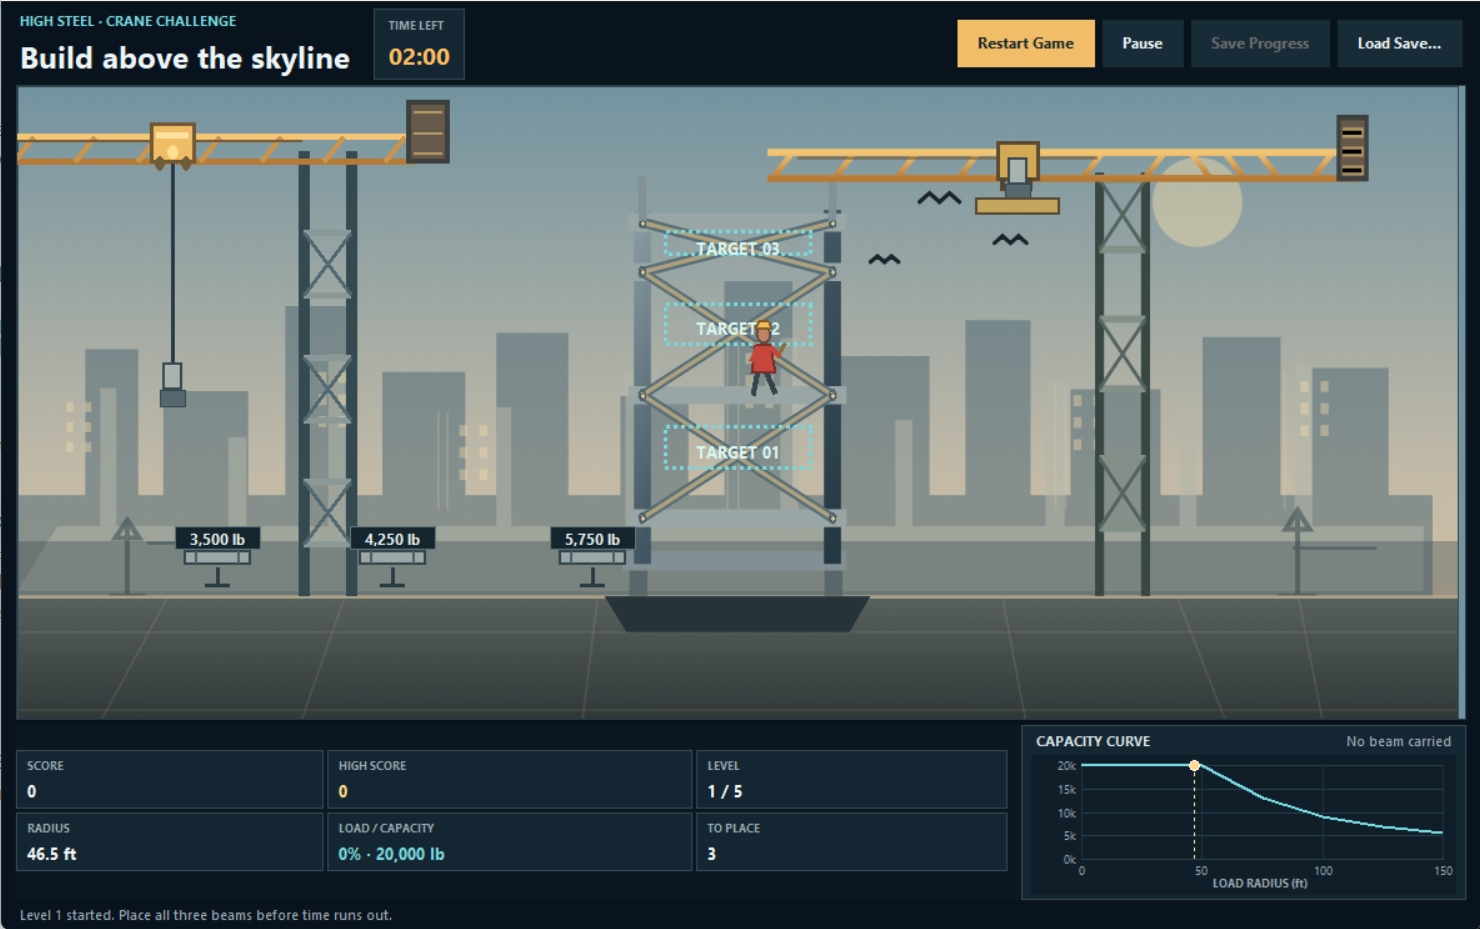
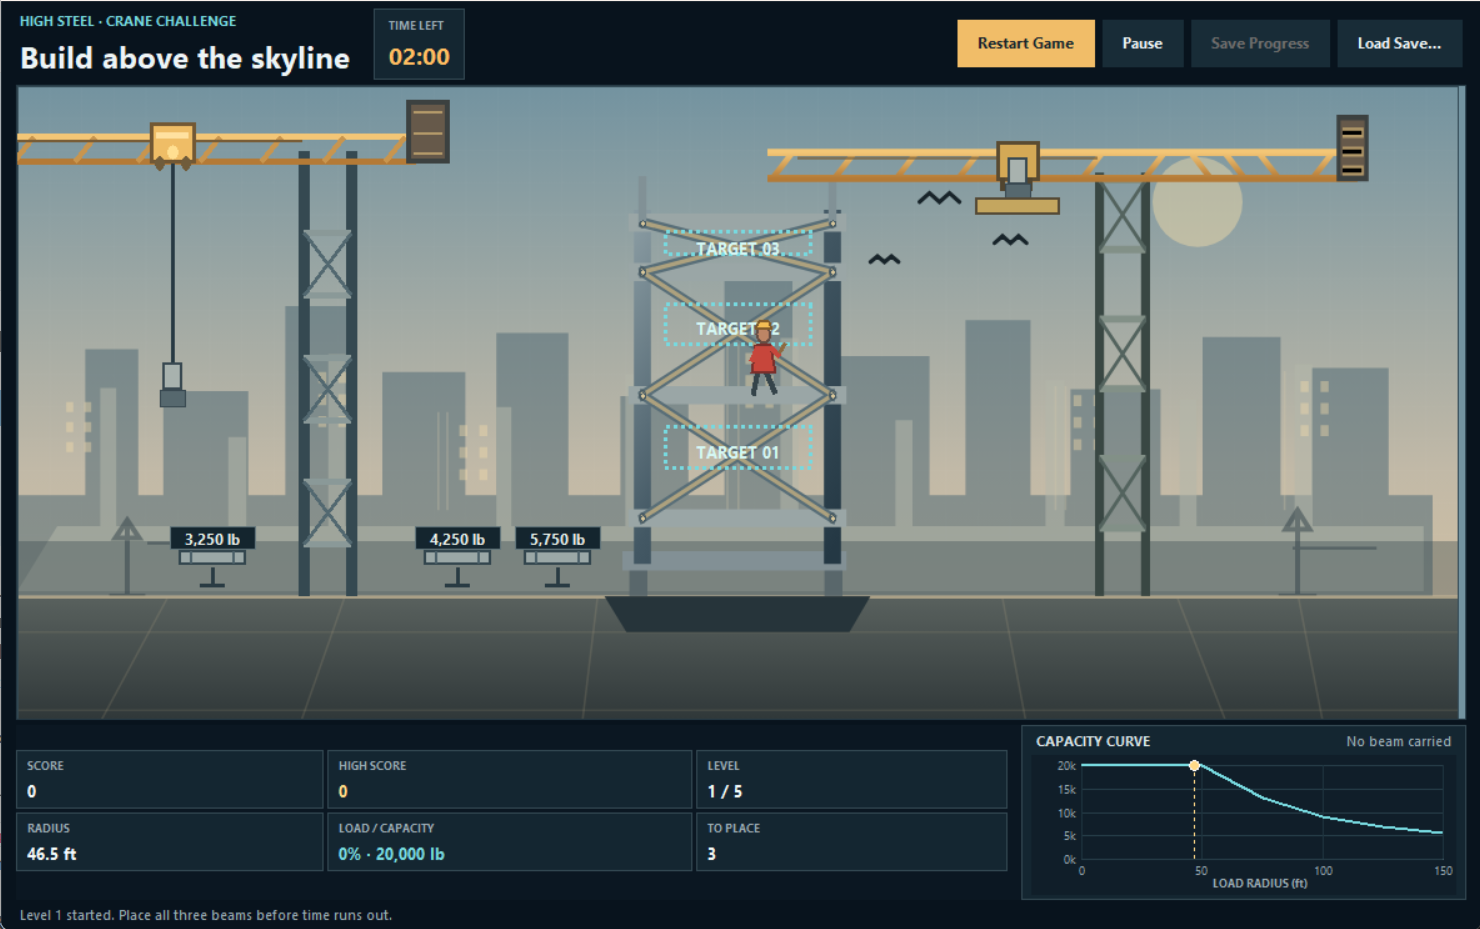
Spec 3 Desktop

Changed region(s): [[0.2176, 0.5619, 0.4351, 0.6555], [0.0932, 0.5619, 0.1865, 0.6243], [0.0, 0.9989, 0.0311, 1.0]]

diff --git a/02_validation/gui_checks.py b/02_validation/gui_checks.py
@@ -209,33 +209,33 @@ class DesktopGuiChecks(unittest.TestCase):
 
     def test_level_progression_completion_and_high_score(self):
         self.app.start_game()
-        layout = APP.TOWER_LAYOUTS[0]
-        for target in range(3):
-            self.app.carried = target
-            self.app.beams[target]["state"] = "carried"
-            self.app.trolley_x = layout["centers"][target]
-            target_y = 510 + 1.5 * (layout["targets"][target] - 510)
-            self.app.hook_y = 510 + (target_y - 6.5 - 510) / 1.3
-            self.app.auto_x = 1000
-            self.app.auto_y = 120
-            self.app.toggle_beam()
-            self.assertIn(target, self.app.filled_targets)
-        self.assertEqual((self.app.level, self.app.score), (1, 500))
-        self.assertIsNotNone(self.app.level_after_id)
-        self.root.after_cancel(self.app.level_after_id)
-        self.app.level_after_id = None
-        self.app._advance_level()
-        self.assertTrue(self.app.running)
-        self.assertEqual(self.app.level, 2)
-        self.assertAlmostEqual(self.app.remaining, APP.LEVEL_SECONDS[1], delta=0.1)
-        self.app.level = 5
-        self.app.score = 1800
-        self.app._complete_level()
+        for level in range(1, 6):
+            self.assertEqual(self.app.level, level)
+            layout = APP.TOWER_LAYOUTS[level - 1]
+            for target in range(3):
+                self.app.carried = target
+                self.app.beams[target]["state"] = "carried"
+                self.app.trolley_x = layout["centers"][target]
+                target_y = 510 + 1.5 * (layout["targets"][target] - 510)
+                self.app.hook_y = 510 + (target_y - 6.5 - 510) / 1.3
+                self.app.auto_x = 1000
+                self.app.auto_y = 120
+                self.app.toggle_beam()
+                self.assertIn(target, self.app.filled_targets)
+            self.assertEqual(self.app.score, level * 500)
+            if level < 5:
+                self.assertIsNotNone(self.app.level_after_id)
+                self.root.after_cancel(self.app.level_after_id)
+                self.app.level_after_id = None
+                self.app._advance_level()
+                self.assertTrue(self.app.running)
+                self.assertEqual(self.app.level, level + 1)
+                self.assertAlmostEqual(self.app.remaining, APP.LEVEL_SECONDS[level], delta=0.1)
         self.assertTrue(self.app.finished)
-        self.assertEqual(self.app.score, 2000)
+        self.assertEqual(self.app.score, 2500)
         self.assertEqual(self.app.start_button.cget("text"), "Play Again")
         score_file = Path(self.temp_dir.name) / "high_score.json"
-        self.assertEqual(json.loads(score_file.read_text(encoding="utf-8"))["high_score"], 2000)
+        self.assertEqual(json.loads(score_file.read_text(encoding="utf-8"))["high_score"], 2500)
 
 
 if __name__ == "__main__":

diff --git a/04_desktop/app.py b/04_desktop/app.py
@@ -35,6 +35,7 @@ TOWER_LAYOUTS = (
 BEAM_SPAWN_RANGES = ((155, 205), (360, 470), (520, 660))
 SAVE_VERSION = 1
 SCENE_SCALES = (1.0, 0.9, 0.8, 0.7, 0.6)
+CAPACITY_EPSILON = 1e-7
 
 
 def capacity_at_radius(radius: float) -> float:
@@ -44,6 +45,11 @@ def capacity_at_radius(radius: float) -> float:
         if radius <= r1:
             return c0 + ((radius - r0) / (r1 - r0)) * (c1 - c0)
     return CAPACITY_CHART[-1][1]
+
+
+def load_at_capacity_fraction(weight: float, capacity: float, fraction: float) -> bool:
+    """Apply a negligible tolerance to capacity thresholds after interpolation."""
+    return weight + CAPACITY_EPSILON >= capacity * fraction
 
 
 def scene_radius(screen_x: float) -> float:
@@ -556,7 +562,7 @@ class HighSteelApp:
             self.hook_y = max(175.0, min(490.0, self.hook_y + vertical * 115 * dt))
         self._animate_hazards(now, dt)
         radius = self.trolley_radius()
-        if self.carried is not None and self.beams[self.carried]["weight"] >= capacity_at_radius(radius):
+        if self.carried is not None and load_at_capacity_fraction(self.beams[self.carried]["weight"], capacity_at_radius(radius), 1.0):
             self._fail("LOAD LIMIT EXCEEDED")
             return
         if now - self.last_draw >= 0.045:
@@ -930,7 +936,7 @@ class HighSteelApp:
         if self.carried is not None:
             weight = self.beams[self.carried]["weight"]
             load_y = graph_y(weight)
-            color = "#ff5e59" if weight / capacity >= 0.9 else "#ffd987"
+            color = "#ff5e59" if load_at_capacity_fraction(weight, capacity, 0.9) else "#ffd987"
             canvas.create_line(left, load_y, x, load_y, fill=color, dash=(4, 3))
             canvas.create_oval(x - 4, load_y - 4, x + 4, load_y + 4, fill=color, outline="#fff")
             self.graph_note.configure(text=f"{weight:,} lb · {weight / capacity:.0%}", fg=color)
@@ -953,7 +959,8 @@ class HighSteelApp:
         capacity = capacity_at_radius(radius)
         percent = self.beams[self.carried]["weight"] / capacity * 100 if self.carried is not None else 0.0
         self.stat_values["radius"].configure(text=f"{radius:.1f} ft")
-        warning_flash = percent >= 90 and blink
+        warning_flash = (self.carried is not None and
+                         load_at_capacity_fraction(self.beams[self.carried]["weight"], capacity, 0.9) and blink)
         self.stat_values["capacity"].configure(text=f"{percent:.0f}% · {capacity:,.0f} lb",
                                                fg="#ff5e59" if warning_flash else "#77d9df")
         self.stat_values["beams"].configure(text=str(3 - len(self.filled_targets)))

diff --git a/02_validation/test_desktop.py b/02_validation/test_desktop.py
@@ -22,6 +22,10 @@ class CapacityValidation(unittest.TestCase):
 
     def test_warning_threshold(self):
         self.assertAlmostEqual(APP.capacity_at_radius(112) * 0.9, 7236)
+        self.assertTrue(APP.load_at_capacity_fraction(7236, APP.capacity_at_radius(112), 0.9))
+        self.assertFalse(APP.load_at_capacity_fraction(7235, APP.capacity_at_radius(112), 0.9))
+        self.assertTrue(APP.load_at_capacity_fraction(5500, APP.capacity_at_radius(150), 1.0))
+        self.assertFalse(APP.load_at_capacity_fraction(5499, APP.capacity_at_radius(150), 1.0))
 
     def test_radius_is_bounded(self):
         self.assertEqual(APP.scene_radius(-1000), 150)

diff --git a/02_validation/capture_desktop.py b/02_validation/capture_desktop.py
@@ -60,6 +60,14 @@ def main() -> None:
             app._draw_graph()
             app._update_hud()
             capture(root, "desktop-step-3-left.png")
+            app.orientation = 1
+            app.trolley_x = APP.MAST_PIVOT + 140 * 500 / 150
+            app.carried = 2
+            app.beams[2]["state"] = "carried"
+            app._draw_scene()
+            app._draw_graph()
+            app._update_hud()
+            capture(root, "desktop-step-3-load.png")
         finally:
             root.destroy()
 

diff --git a/spec.md b/spec.md
@@ -117,8 +117,9 @@ When capacity reaches 90%, make the capacity percentage box flash red. Make the 
 
 - **Step 1 graph file:** [capacity-validation-step-1.svg](03_output/capacity-validation-step-1.svg)
 - **Step 2 graph file:** [capacity-validation-step-2.svg](03_output/capacity-validation-step-2.svg)
+- **Step 3 graph file:** [capacity-validation-step-3.svg](03_output/capacity-validation-step-3.svg)
 
-All recorded desktop validation results are in this table. The capacity, route, and property values were checked by the independent JavaScript reference validator in `02_validation/validate_desktop.js`. Source checks inspect the Python code and scene assets. Matching Python unit tests in `02_validation/test_desktop.py` and interactive checks remain pending because this environment has no usable Python interpreter.
+All recorded desktop validation results are in this table. The capacity, route, and property values were checked by the independent JavaScript reference validator in `02_validation/validate_desktop.js`; Python unit tests and hidden-window Tkinter checks were also run with Python 3.15.2. Source checks inspect the Python code and scene assets. A separate physical computer was unavailable for a literal cross-computer save transfer.
 
 | Step | Validation check | Expected | Actual | Status |
 |:---:|---|---|---|---|
@@ -135,7 +136,7 @@ All recorded desktop validation results are in this table. The capacity, route, 
 | 1 | Original SVG overlay coordinates | 38.1, 74.5, 56.2, 92.4 px | Coordinates applied in Tkinter drawing | Pass, source comparison |
 | 1 | Interpolation proportionality | 15 samples match straight-line values; 87.5 ft gives 11,000 lb | 15 matched; 87.5 ft gives 11,000 lb | Pass, property |
 | 1 | Left/right trolley symmetry | 4 pairs match; x = 10 and 610 give 90 ft and 10,600 lb | 4 matched; example matches | Pass, property |
-| 1 | Python unit tests and Tkinter visual check | Run desktop code | Could not run here | Pending |
+| 1 | Python and Tkinter scene checks | Run desktop code and inspect full scene | 16 unit tests and 9 Tkinter checks passed; start scene inspected | Pass |
 | **Step 2** | **Gameplay and desktop features** | | | |
 | 2 | Capacity at 50 ft | 20,000 lb | 20,000 lb | Pass, reference |
 | 2 | Capacity at 62.5 ft | 16,500 lb | 16,500 lb | Pass, reference |
@@ -154,9 +155,21 @@ All recorded desktop validation results are in this table. The capacity, route, 
 | 2 | Animated turn symmetry | 5 symmetric progress samples; halfway is edge-on | 5 samples matched | Pass, property |
 | 2 | Gameplay, save/load, graph, timer, layout, and turn source flows | 17 checks | 17 passed | Pass, source inspection |
 | 2 | Backgrounds without the fixed player crane | 25 regenerated PNGs; fixed crane absent | 25 regenerated; 70% image visually inspected | Pass, asset inspection |
-| 2 | Python unit tests and Tkinter visual check | Run desktop code | Could not run here | Pending |
-| 2 | Interactive gameplay and checkpoint transfer | Observe in Tkinter and between computers | Could not run here | Pending for step 3 |
-| 3 | Final acceptance checks and capacity graph | Run after step 3 review | Not started | Pending |
+| 2 | Python and Tkinter gameplay checks | Run desktop code | 16 unit tests and 9 Tkinter checks passed | Pass |
+| 2 | Portable checkpoint in a fresh app instance | Level, time, score, placed target, and beam identity restored | Level 3, 47.5 s, score 410, target 0 with beam 3 restored | Pass, Tkinter |
+| **Step 3** | **Final acceptance review** | | | |
+| 3 | Capacity and challenge cases | 10 numerical cases | 10 passed | Pass, reference |
+| 3 | Beam route feasibility | 315 safe routes across five levels | 315 safe routes | Pass, reference |
+| 3 | Mathematical properties | 15 interpolation, 4 radius symmetry, 8 mirror, 5 turn samples | All 32 matched | Pass, property |
+| 3 | Python unit tests | 16 capacity, checkpoint, and gameplay tests | 16 passed | Pass, Python |
+| 3 | Tkinter acceptance tests | 9 scene, graph, pause, save/load, hazard, failure, and progression checks | 9 passed | Pass, Tkinter |
+| 3 | Live graph with a 3,250 lb beam | Weight marker above 0 lb baseline at y = 70.8125 px; no shift from cable sway | Marker at 70.8125 px; no shift | Pass, Tkinter |
+| 3 | Exact 90% warning and 100% overload | 7,236 lb at 112 ft warns; 5,500 lb at 150 ft reaches limit | Warning and threshold tests passed | Pass, Python and Tkinter |
+| 3 | Worker, automatic crane, bird, and failure motion | Contact penalties, bird sway, worker bounce | All observed in Tkinter checks | Pass |
+| 3 | Five-level placement and high score | Three placements per level; final score 2,500; saved high score 2,500 | Five levels completed; both scores 2,500 | Pass, Tkinter |
+| 3 | Timeout and overload restart paths | Timeout restarts game; overload restarts level | Both paths passed | Pass, Tkinter |
+| 3 | Visual layout review | Full crane base, beams, stats, and graph visible; left-facing crane and turn shown | Four 1480 × 929 px captures inspected | Pass, visual inspection |
+| 3 | Physical checkpoint transfer to another computer | Open the JSON save on a second computer | Fresh Tk instance with separate high-score file passed; physical second computer unavailable | Pending physical check |
 
 Each step includes a property check: the validator checks interpolation at 25%, 50%, and 75% of every chart segment and compares equal trolley distances to the left and right of the mast. Step 2 also checks crane mirroring and turn symmetry. The graphs below show the capacity curve and the 15 interpolation samples for each completed step.
 
@@ -170,7 +183,7 @@ Each step includes a property check: the validator checks interpolation at 25%, 
 - The stats and graph occupy a dedicated bottom row, with smaller stat cards. The entire construction scene chooses the largest image scale that fits the screen height and width. The scene no longer needs scrolling, so the crane bases and beams remain visible together with the graph.
 - A 70% scene image was visually inspected after regenerating the assets; its sky, crane tops, tower, crane bases, and ground all extend to the image edges without cropping.
 - The graph marker, radius and capacity readouts, and overload threshold now use the trolley position. A swaying cable does not shift the graph marker.
-- Python/Tkinter launch and visual GUI inspection: **Pending**. The available `python`, `py`, and `python3` commands are inaccessible Windows app aliases.
+- Python/Tkinter execution and visual GUI inspection passed using the interpreter at `%LOCALAPPDATA%\Python\bin\python.exe`. The plain `python` command still resolves to an inaccessible Windows app alias on this machine.
 
 ### Step 2 — Gameplay and desktop features
 
@@ -178,13 +191,20 @@ Each step includes a property check: the validator checks interpolation at 25%, 
 
 The Tkinter gameplay now includes crane movement and turning, beam pickup and placement, five timed levels, scoring and local high score, worker and automatic crane collisions, bird-triggered sway, pause, failure and restart, portable JSON checkpoints, and the live trolley-radius capacity graph. During this review, the timer was changed to use full elapsed time, scheduled timer and level-transition callbacks were made cancellable, blocked targets were changed to retain the carried beam, and expired or completed checkpoints were rejected. Checkpoints also retain which beam filled each target, so loading regenerates the correct remaining beams; older checkpoint files without that mapping still load. The TIME LEFT card now sits in the header immediately right of “Build above the skyline”; the other six stats stay below the scene in two compact rows beside the graph. The player crane's mast, boom, and counterweight are now drawn as live Canvas items and mirrored around the mast during a 1.6-second eased turn, so the trolley can reach the beam on the left.
 
-`node 02_validation/validate_desktop.js 2` passed the eight capacity cases, 32 property samples, 315 route cases, and 17 source-flow checks recorded in the table above. The route and property checks use an independent JavaScript reference calculation; the gameplay-flow checks inspect Python source and do not execute the Tkinter game. All 25 scene PNGs were regenerated without the fixed player crane; a 70% background was visually inspected to confirm the fixed crane is absent.
+`node 02_validation/validate_desktop.js 2` passed the eight capacity cases, 32 property samples, 315 route cases, and 17 source-flow checks recorded in the table above. The route and property checks use an independent JavaScript reference calculation; separate Python and Tkinter tests execute the desktop game. All 25 scene PNGs were regenerated without the fixed player crane; a 70% background was visually inspected to confirm the fixed crane is absent.
 
 The source-flow checks cover five timers, placement scoring, collision penalties, bird sway, pause-gated saves, checkpoint format and load flow, blocked targets, full elapsed-time countdown, cancellation of pending callbacks, the header timer position, and the animated crane mirror. The graph above shows the checked capacity values and the 15 green interpolation samples; the mirror and turn properties are recorded in the central table because the graph's horizontal axis is load radius. The app draws its own live graph beside the stats.
 
 ### Step 3 — Final review
 
-Pending sequential review. The full acceptance checks and final graph will be recorded after step 3.
+![Step 3 capacity validation graph](03_output/capacity-validation-step-3.svg)
+
+The final reference run, `node 02_validation/validate_desktop.js 3`, passed 10 numerical capacity cases, 315 route cases, and 32 property samples, and wrote the graph above. The actual Python functions passed 16 unit tests. The Tkinter app passed nine hidden-window acceptance tests covering layout, the live graph, exact warning thresholds, pause, a portable checkpoint loaded into a fresh app instance, hazards, worker bounce, failure and restart, and placements through all five levels.
+
+Visual inspection of [the start scene](03_output/desktop-step-3-start.png), [the turn midpoint](03_output/desktop-step-3-turn.png), [the left-facing crane](03_output/desktop-step-3-left.png), and [a carried load with a red graph marker](03_output/desktop-step-3-load.png) confirmed the full scene, crane base, beams, stats, and graph remain visible at the tested 1536 × 864 logical-pixel display size with 125% Windows scaling. The live graph was adjusted to start at 0 lb so light beams are plotted at their actual weights. A small tolerance now makes the exact 90% warning and 100% overload thresholds reliable after floating-point interpolation. Images are owned by their Tk window, so the checkpoint can load in a fresh app instance. Level changes now occur after the completion delay, keeping the scene and level readout consistent.
+
+The save JSON contains no machine-specific path, and a separate Tk window with a separate high-score file loaded it successfully. A physical transfer to another computer remains untested because a second computer is not available here.
+
 ## Out of scope
 
 - This is a simple game for fun, not a real crane simulator, operator training tool, or source of real-world safety guidance.

diff --git a/prompts.md b/prompts.md
@@ -302,3 +302,9 @@
 - **What you asked:** Make the first two line items under desktop validation results the graph files, labeled for their steps.
 - **What changed:** Added Step 1 and Step 2 SVG file links as the first two items under **Desktop App Validation Results** in `spec.md`. Kept the graph images embedded with their step notes and updated the plan for future graph links.
 - **Whether it worked:** Both linked graph files exist. The single results table remains below the links; no game code or `index.html` changed.
+
+## 68. Complete desktop implementation step 3
+
+- **What you asked:** Continue to step 3: polish the desktop app, run final acceptance checks including a property check, and record the results and graph in `spec.md`.
+- **What changed:** Found a usable Python 3.15 interpreter, ran actual Python and Tkinter checks, and added nine GUI acceptance checks plus four visual captures. Corrected the live graph to start at 0 lb, made exact 90% and 100% capacity thresholds robust to floating-point rounding, assigned scene images to their Tk window for a fresh-instance checkpoint load, and delayed the level number change until the new level starts. Added the Step 3 graph as the third graph-file item and recorded the final results in the single desktop validation table.
+- **Whether it worked:** The final validator passed 10 numerical cases, 315 beam routes, 32 property samples, and 17 source checks; 16 Python unit tests and nine Tkinter acceptance tests passed. Four 1480 × 929 px captures were inspected. A portable checkpoint loaded in a separate Tk instance with a separate high-score file. Physical transfer to another computer remains untested; `index.html` is unchanged.

diff --git a/02_validation/README.md b/02_validation/README.md
@@ -4,3 +4,7 @@ Store hand calculations, validation scripts, and test cases here.
 
 - `validate_desktop.js`: independent reference checks, including proportionality and symmetry properties for every step and crane mirror and turn properties from step 2 onward; pass the step number (`1`, `2`, or `3`) to run that step's checks and generate its SVG graph in `03_output/`. Step 1 is the default.
 - `test_desktop.py`: tests the desktop app's capacity, portable-checkpoint helpers, and selected gameplay flows. Run with `python -m unittest discover -s 02_validation` on a computer with Python 3.10 or later and Tkinter.
+- `gui_checks.py`: runs the nine Tkinter acceptance checks, including the live graph, pause, portable save/load in a fresh app instance, hazards, failure, and all five levels. Run with `python 02_validation/gui_checks.py` on a machine with a desktop display.
+- `capture_desktop.py`: saves four Step 3 review screenshots in `03_output/`. It requires Tkinter, a desktop display, and Pillow (`PIL`).
+
+On this Windows setup, the plain `python` alias is inaccessible. Use `& "$env:LOCALAPPDATA\Python\bin\python.exe"` in PowerShell in place of `python` for these commands.

diff --git a/04_desktop/README.md b/04_desktop/README.md
@@ -8,4 +8,6 @@ python 04_desktop/app.py
 
 Python 3.10 or later with Tkinter is required. The desktop app uses the PNG scene backgrounds in `assets/`; regenerate them from the current `index.html` with `powershell -ExecutionPolicy Bypass -File 04_desktop/render_scenes.ps1` on Windows with Microsoft Edge installed.
 
+On this Windows setup, the plain `python` alias is inaccessible. Launch the app with `& "$env:LOCALAPPDATA\Python\bin\python.exe" 04_desktop/app.py` in PowerShell.
+
 The web app remains at the project root in `index.html`.
